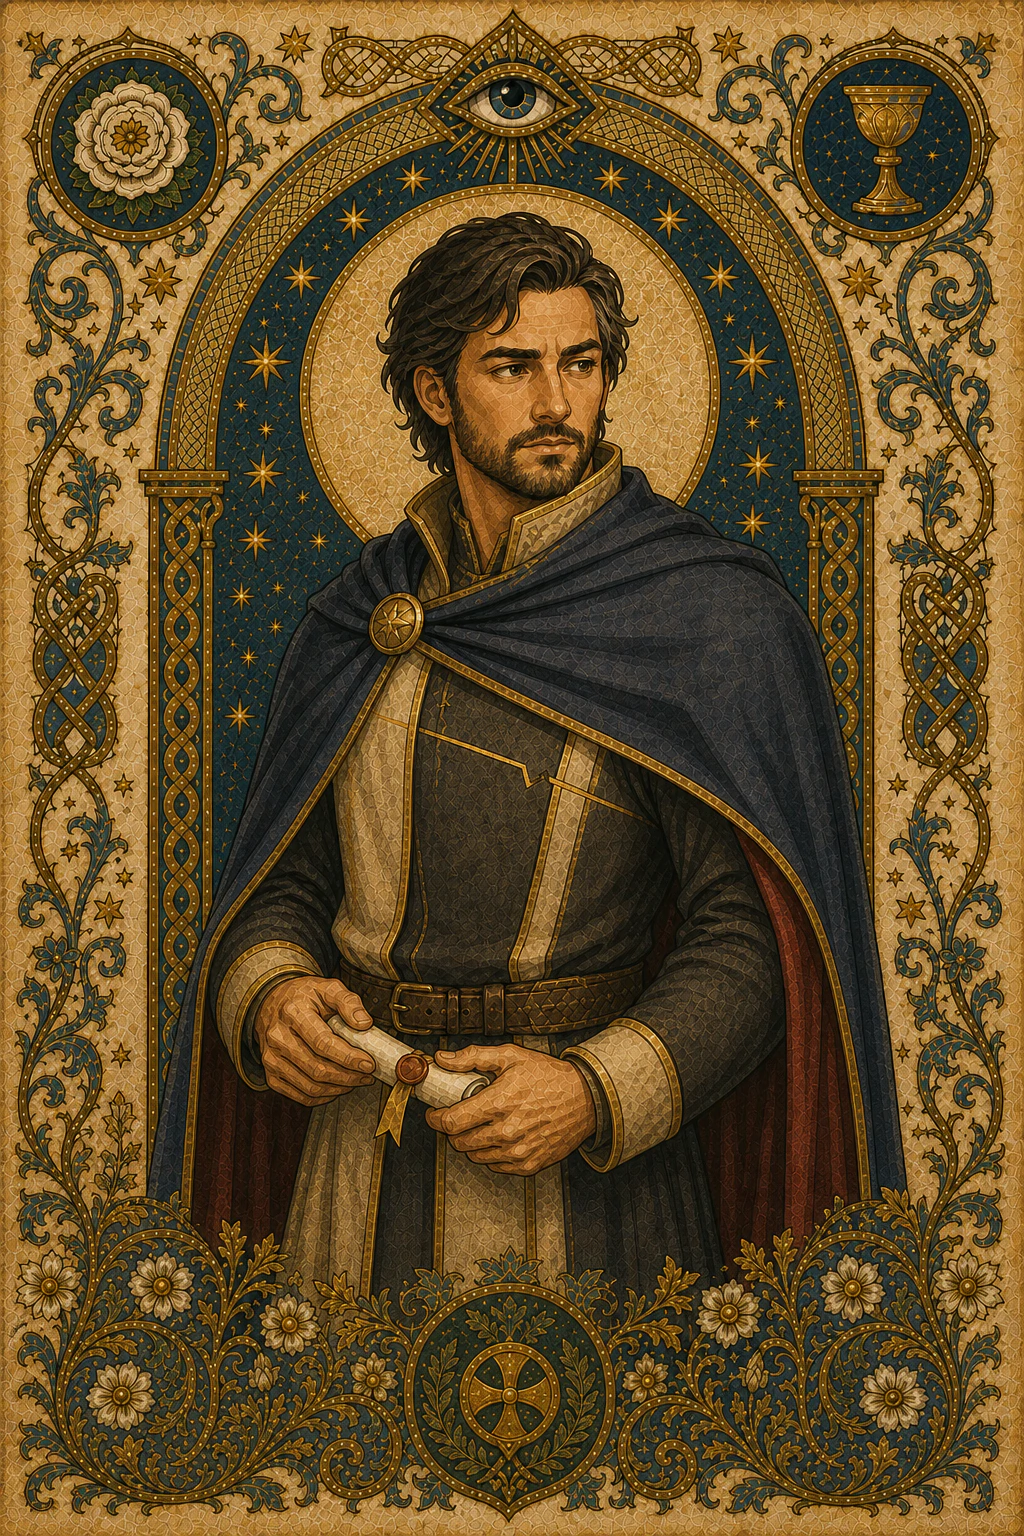
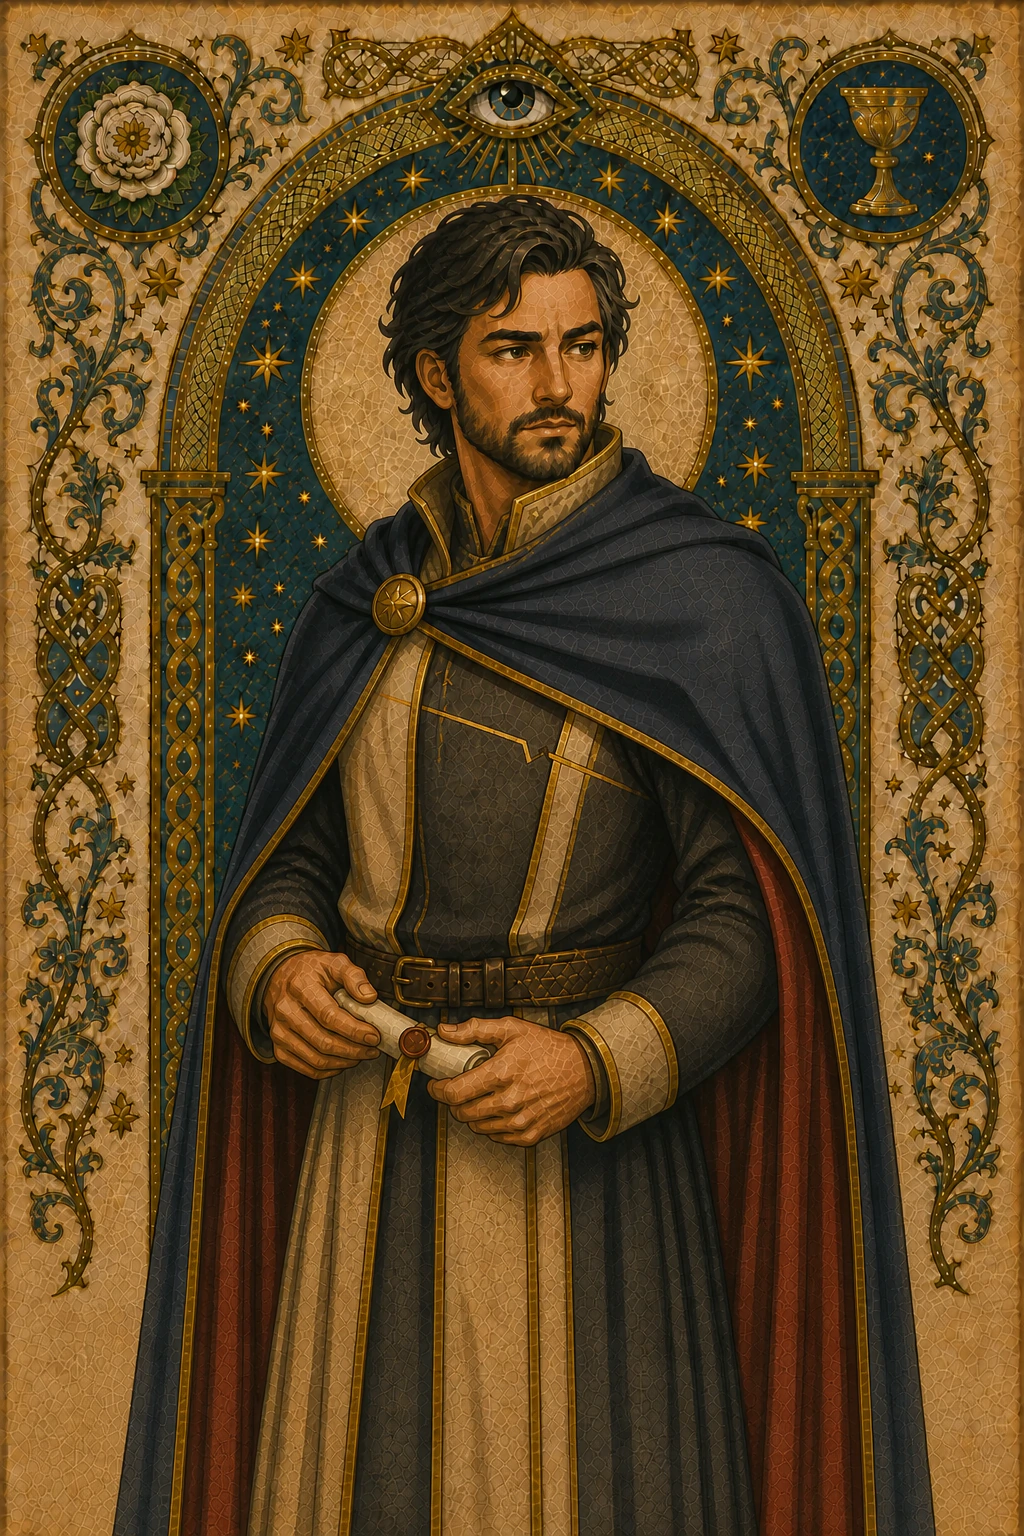
fix: normalize complete Avalon role artwork

diff --git a/frontend/src/components/PressRevealCard.vue b/frontend/src/components/PressRevealCard.vue
@@ -29,8 +29,6 @@ const emit = defineEmits<{ seen: [] }>()
 const pressed = ref(false)
 const hasSeen = ref(false)
 const artworkStyle = computed(() => ({
-  '--reveal-art-scale': props.artworkFraming.scale,
-  '--reveal-art-origin': `${props.artworkFraming.originXPercent}% ${props.artworkFraming.originYPercent}%`,
   backgroundImage: props.artwork ? `url(${JSON.stringify(props.artwork)})` : undefined,
 }))
 
@@ -59,7 +57,6 @@ function hide() {
       type="button"
       class="press-reveal-card"
       :class="{ illustrated: Boolean(artwork) }"
-      :data-artwork-treatment="artworkFraming.treatment"
       @pointerdown.prevent="reveal"
       @pointerup.prevent="hide"
       @pointercancel="hide"
@@ -76,17 +73,9 @@ function hide() {
         <span
           v-if="artwork"
           class="press-reveal-art"
-          :class="{ 'preserves-frame': artworkFraming.preserveFrame }"
           :style="artworkStyle"
           aria-hidden="true"
         />
-        <span
-          v-if="artwork && artworkFraming.preserveFrame"
-          class="press-reveal-inner-art"
-          :style="artworkStyle"
-          aria-hidden="true"
-        />
-        <span v-if="artwork" class="press-reveal-shade" aria-hidden="true" />
         <div class="press-reveal-content" :class="{ illustrated: Boolean(artwork) }">
           <Eye :size="22" />
           <strong>{{ title }}</strong>
@@ -109,23 +98,18 @@ function hide() {
 .press-reveal-art-label { display: inline-flex; align-items: center; justify-self: end; gap: 6px; border: 1px solid color-mix(in srgb, var(--gold) 28%, var(--line)); border-radius: 999px; padding: 6px 9px; color: var(--muted); background: color-mix(in srgb, var(--gold) 7%, var(--surface-inset)); font-size: 9px; font-weight: 850; }
 .press-reveal-art-label svg, .press-reveal-art-label strong { color: var(--gold); }
 .press-reveal-card { position: relative; display: grid; width: 100%; min-height: 300px; overflow: hidden; border: 1px solid color-mix(in srgb, var(--gold) 36%, var(--line)); border-radius: 26px; padding: 24px; color: var(--text); background: radial-gradient(circle at 50% 15%, color-mix(in srgb, var(--gold) 14%, transparent), transparent 34%), var(--surface-elevated); box-shadow: var(--shadow-card); cursor: pointer; touch-action: none; -webkit-touch-callout: none; -webkit-user-select: none; user-select: none; }
-.press-reveal-card.illustrated { aspect-ratio: 2 / 3; min-height: 0; padding: 0; color: #f5f3e9; background: #071412; isolation: isolate; }
+.press-reveal-card.illustrated { aspect-ratio: 2 / 3; min-height: 0; border: 0; padding: 0; color: #f5f3e9; background: #071412; box-shadow: none; isolation: isolate; }
 .press-reveal-card::before, .press-reveal-card::after { position: absolute; width: 110px; height: 110px; border: 1px solid color-mix(in srgb, var(--gold) 18%, transparent); border-radius: 50%; content: ''; }
 .press-reveal-card::before { top: -54px; left: -54px; }
 .press-reveal-card::after { right: -54px; bottom: -54px; }
+.press-reveal-card.illustrated::before, .press-reveal-card.illustrated::after { display: none; }
 .press-reveal-cover, .press-reveal-content { position: relative; z-index: 2; display: grid; place-items: center; align-content: center; gap: 10px; text-align: center; }
 .press-reveal-cover svg, .press-reveal-content > svg { color: var(--gold); }
 .press-reveal-cover strong { font-family: "Songti SC", serif; font-size: 24px; }
 .press-reveal-cover span { color: var(--muted); font-size: 11px; }
 .press-reveal-content > strong { font-family: "Songti SC", serif; font-size: 34px; }
 .press-reveal-content > span { color: var(--text-soft); font-size: 12px; font-weight: 700; }
-.press-reveal-art, .press-reveal-inner-art, .press-reveal-shade { position: absolute; inset: 0; width: 100%; height: 100%; pointer-events: none; }
-.press-reveal-art, .press-reveal-inner-art { background-position: center; background-repeat: no-repeat; background-size: cover; }
-.press-reveal-art { z-index: 0; transform: scale(var(--reveal-art-scale, 1)); transform-origin: var(--reveal-art-origin, 50% 50%); }
-.press-reveal-art.preserves-frame { transform: none; }
-.press-reveal-inner-art { z-index: 0; transform: scale(var(--reveal-art-scale, 1)); transform-origin: var(--reveal-art-origin, 50% 50%); -webkit-mask-image: radial-gradient(ellipse 38% 42% at 50% 42%, #000 0 75%, rgba(0, 0, 0, .76) 84%, transparent 100%); mask-image: radial-gradient(ellipse 38% 42% at 50% 42%, #000 0 75%, rgba(0, 0, 0, .76) 84%, transparent 100%); }
-.press-reveal-shade { z-index: 1; background: linear-gradient(180deg, transparent 30%, rgba(3, 13, 15, .2) 49%, rgba(3, 13, 15, .94) 76%), linear-gradient(90deg, rgba(3, 13, 15, .16), transparent 26%, transparent 74%, rgba(3, 13, 15, .16)); }
-.press-reveal-card[data-artwork-treatment="codex-ink-wash"] .press-reveal-shade { background: linear-gradient(180deg, transparent 60%, rgba(7,18,27,.9) 68%, #07121b 74%, #02090a 100%), linear-gradient(90deg, rgba(3,13,15,.16), transparent 26%, transparent 74%, rgba(3,13,15,.16)); }
+.press-reveal-art { position: absolute; z-index: 0; inset: 0; width: 100%; height: 100%; background-position: center; background-repeat: no-repeat; background-size: contain; pointer-events: none; }
 .press-reveal-content.illustrated { align-content: end; min-height: inherit; padding: 58% 22px 23px; }
 .press-reveal-content.illustrated > svg { filter: drop-shadow(0 2px 7px rgba(0, 0, 0, .75)); }
 .press-reveal-content.illustrated > strong, .press-reveal-content.illustrated > span, .press-reveal-content.illustrated :deep(.secret-description), .press-reveal-content.illustrated :deep(.muted-secret) { text-shadow: 0 2px 9px rgba(0, 0, 0, .9); }

diff --git a/frontend/src/gameRoleSkins.test.ts b/frontend/src/gameRoleSkins.test.ts
@@ -17,86 +17,33 @@ import {
 describe('Avalon role skin artwork framing', () => {
   beforeEach(() => localStorage.clear())
 
-  it('brings the smaller classic Merlin portrait up to the base-set scale', () => {
-    expect(roleArtworkFraming('merlin', 'classic-tabletop')).toEqual({
+  it('keeps curated thumbnail framing for consistent character scale', () => {
+    expect(roleArtworkFraming('merlin', 'classic-tabletop')).toMatchObject({
       scale: 1.1,
-      originXPercent: 50,
       originYPercent: 36,
     })
-    expect(roleArtworkFraming('percival', 'classic-tabletop').scale).toBe(1)
-  })
-
-  it('brings stained-glass Percival up to the set scale without cropping its frame', () => {
-    expect(roleArtworkFraming('percival', 'stained-glass')).toEqual({
+    expect(roleArtworkFraming('percival', 'stained-glass')).toMatchObject({
       scale: 1.09,
-      originXPercent: 50,
-      originYPercent: 50,
       preserveFrame: true,
     })
-    expect(roleArtworkFraming('merlin', 'stained-glass').scale).toBe(1)
-  })
-
-  it('calibrates the royal-codex portraits while preserving their manuscript frames', () => {
-    expect(roleArtworkFraming('merlin', 'royal-codex')).toEqual({
+    expect(roleArtworkFraming('merlin', 'royal-codex')).toMatchObject({
       scale: 1.26,
-      originXPercent: 50,
       originYPercent: 42,
-      preserveFrame: true,
       treatment: 'codex-ink-wash',
     })
-    expect(roleArtworkFraming('percival', 'royal-codex')).toMatchObject({
-      scale: 1.08,
-      preserveFrame: true,
-      treatment: 'codex-ink-wash',
+    expect(roleArtworkFraming('dissenting_courtier', 'royal-codex')).toMatchObject({
+      scale: 1.1,
+      originYPercent: 42,
     })
-    expect(roleArtworkFraming('mordred', 'royal-codex')).toMatchObject({
-      scale: 1.12,
-      preserveFrame: true,
-      treatment: 'codex-ink-wash',
+    expect(roleArtworkFraming('assassin', 'grail-myth')).toMatchObject({
+      scale: 1.18,
+      originYPercent: 60,
     })
-    expect(roleArtworkFraming('oberon', 'royal-codex')).toMatchObject({
-      scale: 1.15,
-      treatment: 'codex-ink-wash',
-    })
-    expect(ROLE_SKIN_ROLES.every(
-      (role) => roleArtworkFraming(role.code, 'royal-codex').treatment === 'codex-ink-wash',
-    )).toBe(true)
-  })
-
-  it('keeps the established ultimate heroes unchanged and corrects the oversized Assassin', () => {
-    expect(roleArtworkFraming('merlin', 'grail-myth')).toEqual({
+    expect(roleArtworkFraming('shadow_merlin', 'classic-tabletop')).toEqual({
       scale: 1,
       originXPercent: 50,
       originYPercent: 50,
     })
-    expect(roleArtworkFraming('percival', 'grail-myth').scale).toBe(1)
-    expect(roleArtworkFraming('loyal-servant', 'grail-myth').scale).toBe(1)
-    expect(roleArtworkFraming('assassin', 'grail-myth')).toEqual({
-      scale: 1.18,
-      originXPercent: 50,
-      originYPercent: 60,
-    })
-  })
-
-  it('brings the more distant ultimate-skin portraits closer', () => {
-    expect(roleArtworkFraming('morgana', 'grail-myth')).toEqual({
-      scale: 1.1,
-      originXPercent: 50,
-      originYPercent: 29,
-    })
-    expect(roleArtworkFraming('mordred', 'grail-myth').scale).toBe(1.1)
-    expect(roleArtworkFraming('oberon', 'grail-myth').scale).toBe(1.08)
-    expect(roleArtworkFraming('minion', 'grail-myth').scale).toBe(1.1)
-  })
-
-  it('uses the same framing data in the ten-role preview model', () => {
-    const roles = ROLE_SKIN_ROLES.map((role) => ({
-      ...role,
-      framing: roleArtworkFraming(role.code, 'grail-myth'),
-    }))
-    expect(roles).toHaveLength(10)
-    expect(roles.find((role) => role.code === 'merlin')?.framing.scale).toBe(1)
-    expect(roles.find((role) => role.code === 'morgana')?.framing.scale).toBe(1.1)
   })
 
   it('uses dedicated dissenting courtier artwork in every skin family', () => {
@@ -126,16 +73,6 @@ describe('Avalon role skin artwork framing', () => {
       expect(isRoleSkinAvailable('shadow_merlin', skin.id)).toBe(true)
     }
     expect(roleSkinRoleCode('shadow_merlin')).toBe('shadow_merlin')
-  })
-
-  it('preserves the royal-codex frame around shadow Merlin', () => {
-    expect(roleArtworkFraming('shadow_merlin', 'royal-codex')).toEqual({
-      scale: 1,
-      originXPercent: 50,
-      originYPercent: 50,
-      preserveFrame: true,
-      treatment: 'codex-ink-wash',
-    })
   })
 
   it('stores an independent ten-role loadout per account', () => {

diff --git a/frontend/src/components/RoleSkinLoadoutPicker.vue b/frontend/src/components/RoleSkinLoadoutPicker.vue
@@ -70,7 +70,6 @@ onBeforeUnmount(() => window.removeEventListener('keydown', handleEscape))
       >
         <span class="role-skin-role-art">
           <img
-            :class="{ 'preserves-frame': role.currentFraming.preserveFrame }"
             :src="role.currentArtwork"
             :alt="`${role.name}的${role.currentSkinName}画风`"
             :style="{ '--artwork-scale': role.currentFraming.scale, '--artwork-origin': `${role.currentFraming.originXPercent}% ${role.currentFraming.originYPercent}%` }"
@@ -124,7 +123,6 @@ onBeforeUnmount(() => window.removeEventListener('keydown', handleEscape))
           >
             <span class="role-skin-choice-art">
               <img
-                :class="{ 'preserves-frame': choice.framing.preserveFrame }"
                 :src="choice.artwork"
                 :alt="`${activeRole.name}的${choice.name}画风`"
                 :style="{ '--artwork-scale': choice.framing.scale, '--artwork-origin': `${choice.framing.originXPercent}% ${choice.framing.originYPercent}%` }"
@@ -161,7 +159,6 @@ onBeforeUnmount(() => window.removeEventListener('keydown', handleEscape))
 .role-skin-role > svg { flex: 0 0 auto; color: var(--muted); }
 .role-skin-role-art { position: relative; align-self: stretch; min-height: 56px; overflow: hidden; border-radius: 9px; background: #061313; }
 .role-skin-role-art img, .role-skin-choice-art img { width: 100%; height: 100%; object-fit: cover; transform: scale(var(--artwork-scale, 1)); transform-origin: var(--artwork-origin, 50% 50%); }
-.role-skin-role-art img.preserves-frame, .role-skin-choice-art img.preserves-frame { transform: none; }
 .role-skin-role-art small { position: absolute; inset: auto 4px 4px; overflow: hidden; border-radius: 999px; padding: 2px 5px; color: #f4f1df; background: rgba(2, 9, 10, .76); font-size: 7px; font-weight: 850; text-align: center; text-overflow: ellipsis; white-space: nowrap; }
 .role-skin-role-copy, .role-skin-role-copy > span { display: grid; gap: 3px; min-width: 0; }
 .role-skin-role-copy > span { grid-template-columns: minmax(0, 1fr) auto; align-items: baseline; }

diff --git a/frontend/src/components/PressRevealCard.test.ts b/frontend/src/components/PressRevealCard.test.ts
@@ -14,7 +14,7 @@ describe('PressRevealCard', () => {
     expect(wrapper.text()).not.toContain('梅林')
   })
 
-  it('renders caller-provided artwork without knowing game rules', async () => {
+  it('renders complete caller-provided artwork without cropping or a shade layer', async () => {
     const wrapper = mount(PressRevealCard, {
       props: {
         title: '隐藏身份',
@@ -28,11 +28,11 @@ describe('PressRevealCard', () => {
     await wrapper.get('.press-reveal-card').trigger('pointerdown')
     const artwork = wrapper.get('.press-reveal-art')
     expect(artwork.element.tagName).toBe('SPAN')
-    expect(artwork.attributes('style')).toContain('--reveal-art-scale: 1.16')
     expect(artwork.attributes('style')).toContain('background-image: url(')
     expect(artwork.attributes('style')).toContain('/role.webp')
-    expect(wrapper.get('.press-reveal-card').attributes('data-artwork-treatment')).toBe('codex-ink-wash')
-    expect(wrapper.find('.press-reveal-inner-art').exists()).toBe(true)
+    expect(artwork.attributes('style')).not.toContain('--reveal-art-scale')
+    expect(wrapper.find('.press-reveal-inner-art').exists()).toBe(false)
+    expect(wrapper.find('.press-reveal-shade').exists()).toBe(false)
     expect(wrapper.find('img').exists()).toBe(false)
   })
 

diff --git a/frontend/src/components/RoleSkinLoadoutPicker.test.ts b/frontend/src/components/RoleSkinLoadoutPicker.test.ts
@@ -89,6 +89,22 @@ describe('RoleSkinLoadoutPicker', () => {
     )
   })
 
+  it('applies the curated character scale only to picker thumbnails', () => {
+    const framedRoles = roles()
+    framedRoles[0]!.currentFraming = {
+      scale: 1.25,
+      originXPercent: 50,
+      originYPercent: 42,
+    }
+    const wrapper = mount(RoleSkinLoadoutPicker, {
+      props: { roles: framedRoles },
+    })
+
+    const artwork = wrapper.get('[data-role-skin-role="merlin"] img')
+    expect(artwork.attributes('style')).toContain('--artwork-scale: 1.25')
+    expect(artwork.attributes('style')).toContain('--artwork-origin: 50% 42%')
+  })
+
   it('selects an unlocked style for only the active role', async () => {
     const wrapper = mount(RoleSkinLoadoutPicker, { props: { roles: roles() } })
     await wrapper.get('[data-role-skin-role="merlin"]').trigger('click')

diff --git a/frontend/src/gameRoleSkins.ts b/frontend/src/gameRoleSkins.ts
@@ -246,6 +246,12 @@ const ROLE_ARTWORK_FRAMING: Partial<
       originYPercent: 38,
       preserveFrame: true,
     },
+    dissenting_courtier: {
+      scale: 1.1,
+      originXPercent: 50,
+      originYPercent: 42,
+      preserveFrame: true,
+    },
     mordred: {
       scale: 1.12,
       originXPercent: 50,
